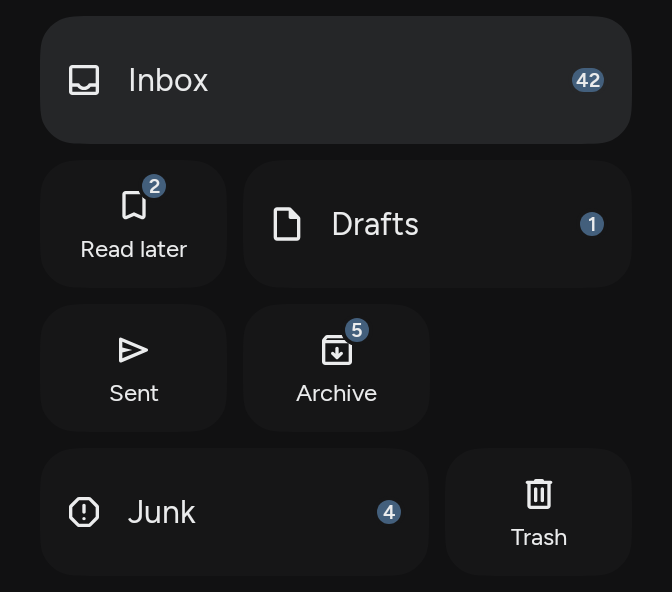
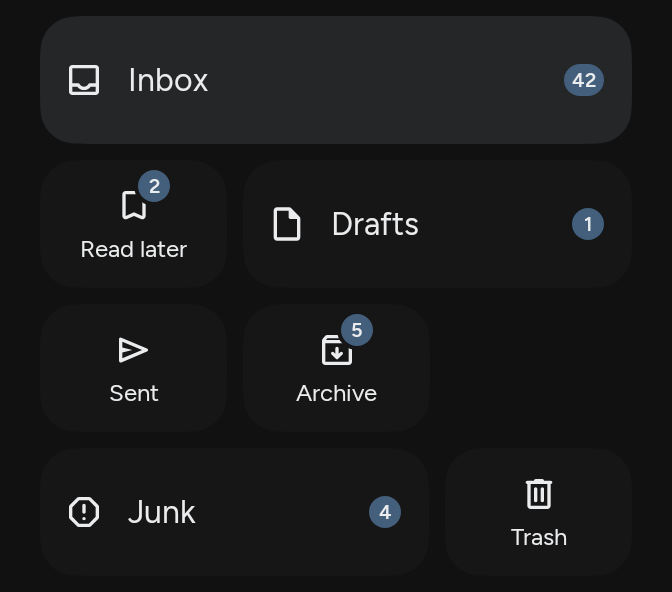
fix(sidebar): match mailbox counts to the filter count (#128)
* fix(sidebar): match mailbox counts to the filter count

- Grow the sidebar count's fill to the filter count's 16 dp, with the ring outside it.
- Take the count's height and text size from FilterTokens.
- Show the filter count's number in text1, like the sidebar counts.

* test(sidebar): re-record count screenshots

- Record the larger sidebar counts and the white filter count.

* fix(controls): fill the filter count with accentDark

- Fill IconButton's count with accentDark, like the sidebar counts.
- Re-record the badged symbol screenshot.

diff --git a/designsystem/src/commonMain/kotlin/com/otus/designsystem/shared/controls/elements/IconButton.kt b/designsystem/src/commonMain/kotlin/com/otus/designsystem/shared/controls/elements/IconButton.kt
@@ -25,7 +25,7 @@ import com.otus.designsystem.theme.tokens.selection.FilterTokens
 import com.otus.designsystem.theme.typography.panelTextStyle
 
 /**
- * A round button around a symbol. A [badgeCount] above zero puts a small `accentLight` count on its
+ * A round button around a symbol. A [badgeCount] above zero puts a small `accentDark` count on its
  * top end, such as the number of active filters on the filter button; the badge sits outside the
  * circle's clip, so it is never cut off. [look] sets what is behind the symbol.
  */
@@ -79,13 +79,12 @@ private fun CountDot(
     Box(
         modifier
             .sizeIn(minWidth = FilterTokens.badgeSize, minHeight = FilterTokens.badgeSize)
-            .background(OtusColors.accentLight, CircleShape),
+            .background(OtusColors.accentDark, CircleShape),
         contentAlignment = Alignment.Center,
     ) {
         Text(
             count.toString(),
             style = panelTextStyle(),
-            color = OtusColors.bgDark,
             fontSize = FilterTokens.badgeTextSize,
             lineHeight = FilterTokens.badgeTextSize,
             fontWeight = FontWeight.SemiBold,

diff --git a/designsystem/src/commonMain/kotlin/com/otus/designsystem/theme/tokens/layout/SidebarTokens.kt b/designsystem/src/commonMain/kotlin/com/otus/designsystem/theme/tokens/layout/SidebarTokens.kt
@@ -2,6 +2,7 @@ package com.otus.designsystem.theme.tokens.layout
 
 import androidx.compose.ui.unit.dp
 import androidx.compose.ui.unit.sp
+import com.otus.designsystem.theme.tokens.selection.FilterTokens
 
 internal object SidebarTokens {
     /** The page stays visible beyond it. */
@@ -38,11 +39,14 @@ internal object SidebarTokens {
     val tileLabelLineHeight = 16.sp
     val tileLabelGap = 4.dp
 
-    /** A count on a tile's icon or the inset Inbox row, ringed in the surface color so it stands clear. */
-    val badgeHeight = 16.dp
-    val badgePadding = 4.dp
+    /**
+     * A count on a tile's icon or the inset Inbox row, ringed in the surface color so it stands clear.
+     * The ring sits outside a fill the size of the filter button's count, so both counts read alike.
+     */
     val badgeRing = 2.dp
-    val badgeSize = 10.sp
+    val badgeHeight = FilterTokens.badgeSize + badgeRing * 2
+    val badgePadding = 4.dp + badgeRing
+    val badgeSize = FilterTokens.badgeTextSize
 
     /** The gap between mailbox tiles. */
     val tileGap = 8.dp

diff --git a/CHANGELOG.md b/CHANGELOG.md
@@ -2,6 +2,10 @@
 
 ## Unreleased
 
+- Sidebar: a mailbox count's fill is now as large as the filter button's count, 16 dp with 10 sp
+  text, and its ring sits outside the fill instead of inside it. The filter button's count now
+  matches the sidebar counts, with an `accentDark` fill and `text1` text instead of `accentLight`
+  and `bgDark`.
 - JMAP: add the extensions `JmapConnection.downloadStream(accountId, blobId, mediaType, name,
   receive)` and `JmapClient.downloadStream(session, auth, …)`, imported from `com.otus.jmap`. Each
   reads a blob through the session's `downloadUrl` with the checks of `download`, but hands each
